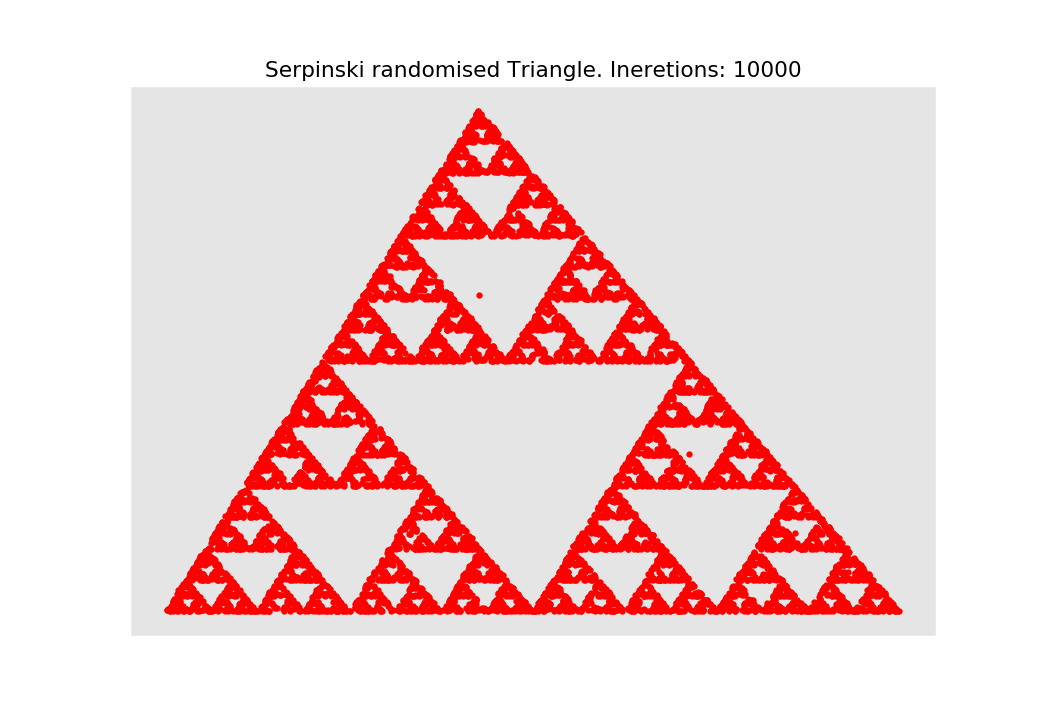
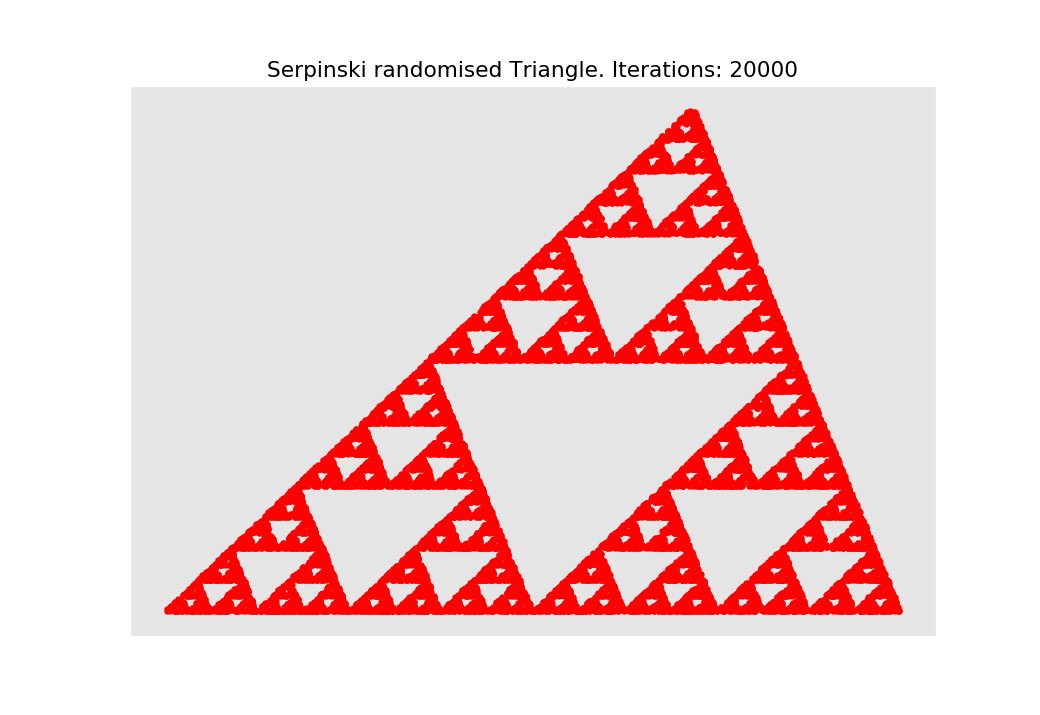
Serpinski Triangle

Changed region(s): [[0.1538, 0.1538, 0.8615, 0.8615], [0.2462, 0.0615, 0.7692, 0.1231]]

diff --git a/fractals.py b/fractals.py
@@ -51,7 +51,7 @@ while Show and CurrentIteration < MaxIterations:
 		x0, y0 = xticks[i], yticks[i]
 	CurrentIteration += IterationsPerFrame
 	plt.plot(xticks, yticks, 'r.')
-	plt.title("Serpinski randomised Triangle. Ineretions: {}".format(CurrentIteration))
+	plt.title("Serpinski randomised Triangle. Iterations: {}".format(CurrentIteration))
 	plt.connect('key_press_event', onkeypressed)
 	plt.pause(0.01)
 	
